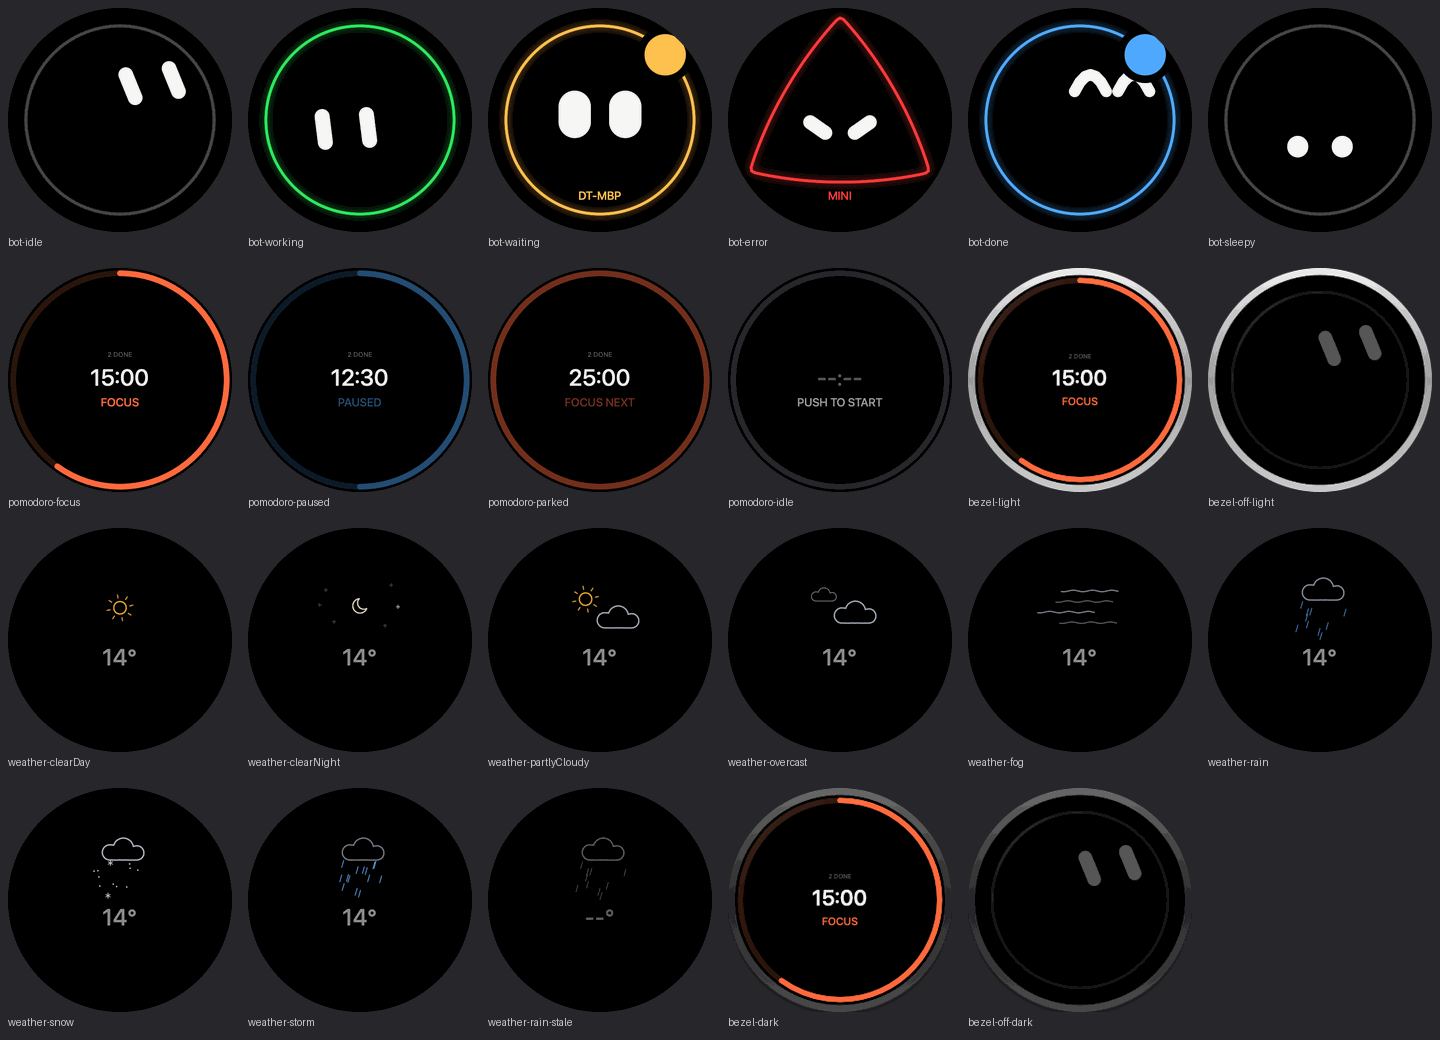
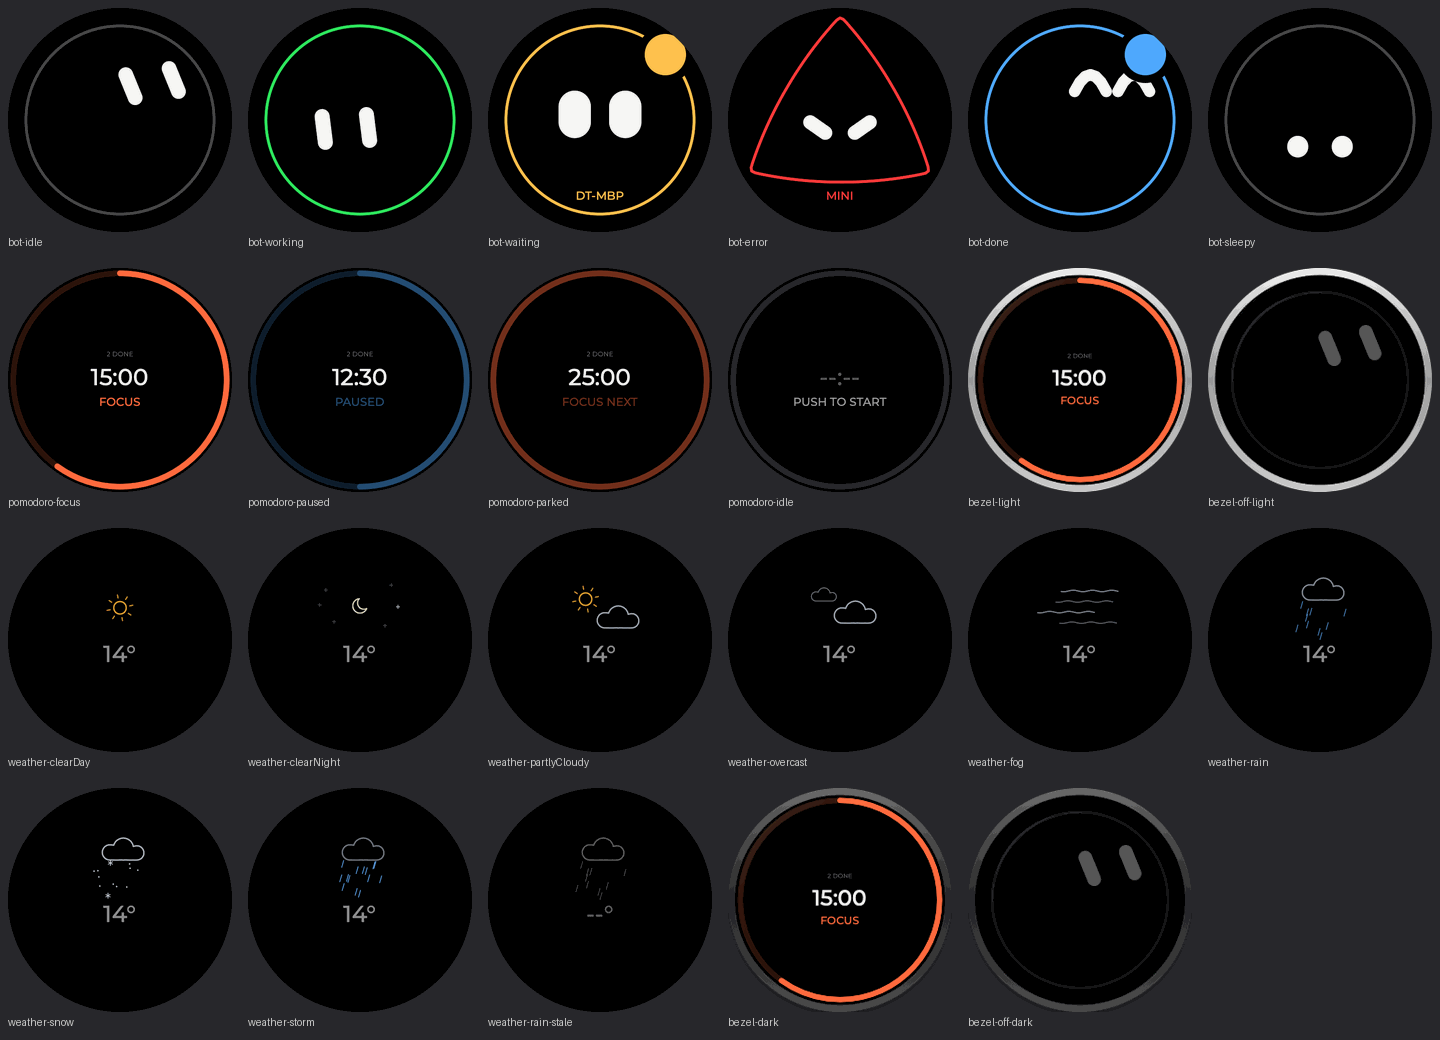
docs: knob preview theme, fonts and redraw rules

diff --git a/docs/ARCHITECTURE.md b/docs/ARCHITECTURE.md
@@ -1827,20 +1827,34 @@ the same board finds its record.
   shows the clock's frames, but drawn locally: the knob renders on-device and
   its view endpoint takes a device token only. The app composes the same
   inputs from what it already polls: `/state` sessions (mood and host label,
-  `KnobMood`, the firmware's render priority and #213 host rule),
+  `KnobMood`, the firmware's render priority and #213 host rule; the last
+  good mood stays while `/state` fails, as on the knob),
   `/v1/pomodoro/state`, `/v1/weather/state` (tracked while a preview is up)
-  and `/v1/display/brightness`, plus the draft knob settings, so toggling a
+  and `/v1/display/brightness` (read at once when "Follow Ember brightness"
+  turns on, then every 60 s), plus the draft knob settings, so toggling a
   page or a bot timing shows at once. The renderers port cinder's firmware
-  (`bot_shape.c`, `bot_view.c` Head style, `pomo_view.c`, `weather_face.c`,
-  `weather_scene.c`); `BotBehavior.Tuning` carries the knob's slower, flatter
-  hop. Every number they share with the firmware (geometry, palette, layout,
-  font sizes) lives in `macos/Sources/EmberKit/Resources/knob-theme.json`,
-  pinned by `KnobFaceTests`; cinder is to generate its C constants from a
-  copy with a parity check. Montserrat isn't bundled, so labels use the
-  system font at the firmware's pixel sizes. Only the single-page preview
-  animates (bot at 20 fps, weather at the firmware's rate, while on screen;
-  Reduce Motion keeps blinks only); the Pages overview is static.
-  `KNOB_SNAPSHOT_DIR=… swift test --filter knobFaces` writes PNGs of every face.
+  (`bot_shape.c`, `bot_view.c` Head style with its plain 6 px outline and
+  squash variants picked by sy/sx so the pop only pulses the eyes,
+  `pomo_view.c`, `weather_face.c`, `weather_scene.c`); `BotBehavior.Tuning`
+  carries the knob's slower, flatter hop. `knob-theme.json`
+  (`macos/Sources/EmberKit/Resources/`) holds the numbers the renderers
+  share with the firmware: geometry, palette, label layout and LVGL font
+  metrics, eye geometry, and the weather scene's sprite sizes, layout,
+  particles and timing. The sprite outlines themselves (cloud, moon, rays…)
+  and the hop squash curve stay in code on both sides. `KnobThemeTests` pins
+  every key; with a cinder checkout next to this repo (or `CINDER_DIR`) it
+  also parses the firmware source and checks each key against the constant
+  it mirrors. tarakanof/cinder#34 tracks generating the C side from a copy.
+  Labels use the bundled Montserrat Medium (SIL OFL 1.1,
+  `Montserrat-OFL.txt` next to it), the font LVGL's built-in sizes are made
+  from, placed by LVGL's line box (top, line height, baseline). The bot
+  redraws only when its pose changes: 20 fps while `BotBehavior.isAnimating`,
+  otherwise the next frame is scheduled at `nextEventAt`. Weather runs at the
+  firmware's frame rate, the Pomodoro ticks once a second, and only while
+  the pane is on screen; Reduce Motion keeps blinks only and holds the sky
+  still. The Pages overview has no timers: it redraws when the polled data
+  changes. `KNOB_SNAPSHOT_DIR=… swift test --filter knobFaces` writes PNGs
+  of every face.
 
 ### Config load and `/admin/reload`
 

diff --git a/docs/MENU-BOT.md b/docs/MENU-BOT.md
@@ -21,7 +21,7 @@ per-tool glyphs, "Menu-bar colour" switches between Colored and Monochrome, and
 | `macos/Ember/MenuBar/StatusItemAccessibility.swift` | Puts that value on the `NSStatusBarButton` by hand: `MenuBarExtra` forwards the label (as AXTitle) but drops `accessibilityValue`. `StatusItemButton.find()` locates the button for this and for the animator. |
 | `macos/Ember/AppEnvironment.swift` | `feedBot()` pushes the winning session's state into the animator. `feedMenuBarLabel()` keeps `menuBarLabel` (a `MenuRows.LabelState`) current and sets it only when it changes, so the label skips polls that only move a timestamp or activity text. `applyAppIcon` switches the Dock tile. |
 | `macos/Tests/EmberKitTests/BotBehaviorTests.swift` | Behavior and renderer tests. |
-| `macos/Sources/EmberKit/KnobFace/` | The knob's bot (and its other pages) for Settings' previews: the same `BotBehavior` with `Tuning` from `knob-theme.json` (1 s hop at 75 % squash, every 4.5 s median), drawn in the knob's Head style. See ARCHITECTURE "Knob page previews". |
+| `macos/Sources/EmberKit/KnobFace/` | The knob's bot (and its other pages) for Settings' previews: the same `BotBehavior` with `Tuning` from `knob-theme.json` (1 s hop at 75 % squash, every 4.5 s median), drawn in the knob's Head style: a plain 6 px outline whose squash variant is picked by sy/sx, so the pop pulses only the eyes. See ARCHITECTURE "Knob page previews". |
 
 ## Moods
 
